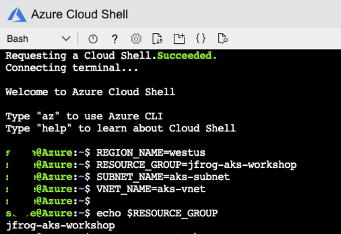
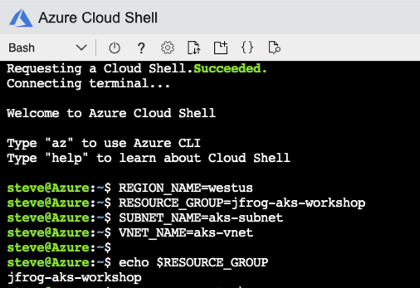
updates

diff --git a/layouts/partials/logo.html b/layouts/partials/logo.html
@@ -1,37 +1,44 @@
-<a id="logo" href="/">
-
-<svg id="grav-logo" version="1.1" id="Layer_1" xmlns="http://www.w3.org/2000/svg" xmlns:xlink="http://www.w3.org/1999/xlink"
-	width="100%" height="100%"  viewBox="0 0 285.1 69.9" xml:space="preserve">
-<g>
-	<path d="M35,0c9.6,0,17.9,3.4,24.7,10.3c6.8,6.8,10.3,15,10.3,24.7c0,9.7-3.4,17.9-10.3,24.7c-6.8,6.8-15,10.3-24.7,10.3
-		c-9.7,0-17.9-3.4-24.7-10.3C3.4,52.8,0,44.6,0,34.9c0-9.6,3.4-17.9,10.3-24.7C17.1,3.4,25.3,0,35,0z M22.3,63.7
-		c0.3-7.4,0.3-14.7,0-22.1c-2.1-0.4-4-0.4-5.9,0c-0.2,0.8-0.2,2.5-0.1,4.9c0.1,2.3,0,3.9-0.3,4.8c-1.7-0.6-2.7-2.1-3.1-4.6
-		c-0.1-0.7-0.1-3.3-0.1-8c0-14.5-0.1-23-0.3-25.6c-3.6,4.1-5.6,7-5.9,8.5v10.9c0,4.5,0.1,8.1,0.2,10.9c0,0.4,0,1.3-0.1,2.8
-		c-0.1,1.2,0,2.1,0.1,2.6c0.1,0.6,1.1,2.1,2.8,4.7C13.2,58.7,17.5,62.2,22.3,63.7z M44.6,65.4c0.3-5,0.2-12.9-0.1-23.6
-		c-2.1-0.3-4.1-0.3-5.9,0c-0.2,2-0.2,5.1-0.1,9.5c0.1,4.3,0,7.5-0.1,9.5c-2.9,0.4-5,0.3-6.2-0.1c-0.2-5.6-0.2-15.2-0.1-28.7
-		c0.1-12.4,0-21.8-0.3-28.3c-2.4,0.1-4.3,0.6-5.7,1.3c-0.1,7.7-0.2,17.7-0.1,30.1c0,16.5,0,26.6,0,30.3c2.3,1.1,5.4,1.7,9.4,1.7
-		C38.9,66.9,42.1,66.4,44.6,65.4z M48.1,64.1c9.7-4.6,15.7-12,18-22.2c-1.8-0.2-3.8-0.3-6.1-0.3c-1.6,3.9-2.6,6.3-3.2,7.2
-		c-1.1,1.7-2,2.5-2.7,2.5C54,46,54,39.1,54,30.5c0-11.5,0-18.4,0-20.9c-1.4-1.4-3.3-2.5-5.7-3.4C48.1,6.3,48,6.4,48,6.7
-		c0,3.5,0,13.1,0,28.8C47.9,47.2,48,56.8,48.1,64.1z"/>
-</g>
-<g>
-	<path d="M154.8,51.3h-22.9c-0.9,0-1.8-0.2-2.9-0.5c-1-0.3-2-0.8-2.9-1.5c-0.9-0.7-1.6-1.6-2.2-2.8c-0.6-1.1-0.9-2.5-0.9-4.2V19.5
-		c0-0.4,0.1-0.9,0.2-1.2c0.2-0.4,0.4-0.7,0.7-1c0.3-0.3,0.6-0.5,1-0.7c0.4-0.2,0.8-0.2,1.3-0.2h28.6v6.3h-25.4v19.8
-		c0,0.8,0.2,1.5,0.7,1.9s1.1,0.7,1.9,0.7h22.9V51.3z M151.9,37h-20v-6.4h20V37z"/>
-	<path d="M197.3,51.3H191v-8.6h-22.3v8.6h-6.3V33.8c0-2.6,0.4-4.9,1.3-7.1s2.1-4,3.7-5.5c1.6-1.5,3.4-2.8,5.5-3.6
-		c2.1-0.9,4.5-1.3,7-1.3h14.3c0.4,0,0.9,0.1,1.2,0.2c0.4,0.2,0.7,0.4,1,0.7s0.5,0.6,0.7,1c0.2,0.4,0.2,0.8,0.2,1.2V51.3z
-		 M168.7,36.4H191V22.6h-11.2c-0.2,0-0.6,0-1.2,0.1c-0.6,0.1-1.4,0.2-2.2,0.4c-0.8,0.2-1.7,0.6-2.6,1c-0.9,0.5-1.8,1.1-2.5,2
-		c-0.8,0.8-1.4,1.9-1.9,3.1c-0.5,1.2-0.7,2.8-0.7,4.5V36.4z"/>
-	<path d="M241.7,28.1c0,1.4-0.2,2.7-0.5,3.9c-0.4,1.1-0.8,2.1-1.5,3c-0.6,0.9-1.3,1.6-2.1,2.2c-0.8,0.6-1.6,1.1-2.5,1.5
-		c-0.9,0.4-1.8,0.7-2.6,0.9c-0.9,0.2-1.7,0.3-2.5,0.3l13.3,11.5h-9.8l-13.2-11.5h-4.6v-6.3H230c0.8-0.1,1.5-0.2,2.2-0.5
-		c0.7-0.3,1.2-0.6,1.7-1.1c0.5-0.5,0.9-1,1.1-1.6c0.3-0.6,0.4-1.4,0.4-2.2v-4c0-0.4,0-0.6-0.1-0.8c-0.1-0.2-0.2-0.3-0.3-0.4
-		c-0.1-0.1-0.3-0.1-0.4-0.2c-0.2,0-0.3,0-0.4,0h-20.9v28.7h-6.3V19.5c0-0.4,0.1-0.9,0.2-1.2c0.2-0.4,0.4-0.7,0.7-1
-		c0.3-0.3,0.6-0.5,1-0.7c0.4-0.2,0.8-0.2,1.3-0.2H234c1.4,0,2.6,0.3,3.6,0.8s1.8,1.2,2.4,1.9c0.6,0.8,1,1.6,1.3,2.5
-		c0.3,0.9,0.4,1.7,0.4,2.5V28.1z"/>
-	<path d="M285.1,48.6c0,0.5-0.1,0.9-0.3,1.3c-0.2,0.4-0.4,0.7-0.7,1c-0.3,0.3-0.6,0.5-1,0.7c-0.4,0.2-0.8,0.2-1.2,0.2
-		c-0.4,0-0.8-0.1-1.2-0.2c-0.4-0.1-0.8-0.4-1.1-0.7l-23.2-24.2v24.7h-6.3V19c0-0.7,0.2-1.2,0.5-1.8c0.4-0.5,0.8-0.9,1.4-1.2
-		c0.6-0.2,1.2-0.3,1.9-0.2s1.2,0.4,1.6,0.9l23.2,24.2V16.3h6.3V48.6z"/>
+<!-- Generator: Adobe Illustrator 21.1.0, SVG Export Plug-In . SVG Version: 6.00 Build 0)  -->
+<svg version="1.1" id="Layer_1" xmlns="http://www.w3.org/2000/svg" xmlns:xlink="http://www.w3.org/1999/xlink" x="0px" y="0px"
+	 viewBox="0 0 300 300" style="enable-background:new 0 0 300 300;" xml:space="preserve">
+<style type="text/css">
+	.st0{fill:#ffffff;}
+</style>
+<g id="Layer_x0020_1">
+	<path class="st0" d="M131.8,182.9l-11.5,3.2c1,2.9,1.8,8.1,1.8,15.1v34.4H135v-36.4c2.4-2.9,5-4.3,7.8-4.3c1.4,0,2.5,0.3,3.7,1
+		l3.5-11.9c-2-0.9-2.9-1.1-4.8-1.1c-1.4,0-3.1,0.3-4.2,0.8c-2.4,1.2-5.4,3.9-7.3,6.5C133.7,187.3,133,185,131.8,182.9z M87.4,165.9
+		H86v69.6h13.4v-30.8h16.9v-11.5H99.4v-16h21.1l0.8-6.1C108.6,170.2,97.1,168.2,87.4,165.9z M56.1,244.8l6.2,7.2
+		c6-2.4,13.5-7.8,15.5-16.4c0.7-2.8,0.9-4.6,0.9-13.7v-55.9H65.2v57.4c0,7.5-0.3,10.3-1.3,12.9C62.6,239.2,59.5,242.6,56.1,244.8z
+		 M177.8,209.5c0,12.2-2.4,17.4-7.9,17.4c-2.5,0-5.3-1.4-6.5-4.2c-1-2.6-1.6-7-1.6-13c0-5.1,0.5-8.7,1.3-11.5c1-3.2,3.5-5.2,6.6-5.2
+		c2.3,0,4.3,1,5.5,2.7C177,198.1,177.8,202.6,177.8,209.5z M185.7,229.5c4.2-5,6.1-11.1,6.1-19.9c0-8.3-1.7-14-5.6-18.8
+		c-4.2-5.2-9.6-7.7-16.6-7.7c-13.2,0-22,10.7-22,26.9s8.7,26.6,22,26.6C177.1,236.7,182,233.9,185.7,229.5z M222.3,200.7
+		c0,4.7-2.8,7.3-7.8,7.3c-4.5,0-7.5-2.1-7.5-7.3c0-4.8,2.8-7.6,7.6-7.6S222.3,195.9,222.3,200.7z M245,189.7l-5.3-8.5
+		c-3,2.8-6.6,4.4-10.1,4.4c-1.6,0-2.5-0.2-6-1.1c-3.5-1-6-1.3-8.8-1.3c-12.5,0-20.6,6.8-20.6,17.4c0,7.6,3.4,12.4,10.5,14.3
+		c-2.9,0.7-6,2.2-7.4,3.9c-1,1.2-1.5,2.8-1.5,4.7c0,1.6,0.4,3,1,4.2c0.7,1.1,1.6,2,2.8,2.5c2.3,0.9,6,1.5,11.7,1.6
+		c3,0,4.8,0.1,5.4,0.1c3.5,0.2,5.3,0.8,6.7,1.5c1.3,0.8,2.3,2.6,2.3,4.6c0,2-1.2,4-3.1,5.2c-1.7,1.2-4.5,1.7-8.1,1.7
+		c-5.9,0-9.2-2.2-9.2-6.3c0-1.8,0.2-2.2,0.6-3.3h-11.8c-0.5,1-1.1,2.4-1.1,5.2c0,3.5,1.3,6.5,4,9.1c4.4,4.3,11.6,5.5,18.5,5.5
+		c7.6,0,15-1.8,19.3-6.6c2.7-3,3.9-6.3,3.9-10.6c0-4.6-1.3-8.1-4.2-11c-3.4-3.3-7.3-4.5-14.8-4.6l-6.9-0.1c-1.3,0-2.1-0.5-2.1-1.2
+		c0-1.4,1.8-2.6,5.1-4.2c1,0.1,1.3,0.1,1.9,0.1c10.4,0,18-6.4,18-15.3c0-3.4-1-6-2.9-8.4c1.6,0.2,2.1,0.3,3.3,0.3
+		C239.5,193.5,242.2,192.4,245,189.7z M84,105.4c-16,3.9-26.9,11.6-26.9,20.4c0,5.5,4.2,10.5,11.1,14.4c-2.1-3.3-3.2-6.9-3.2-10.5
+		C65.1,120.6,72.2,112.1,84,105.4z M252.8,139.9c0-5.8-3.6-11.1-9.6-15.5c0.5,1.8,0.9,3.6,0.9,5.4c0,16.5-23.1,30.7-55.9,36.6
+		c3.7,0.4,7.5,0.6,11.5,0.6C229,166.9,252.8,154.8,252.8,139.9z M233.9,130.9c0-6.1-5.2-11.7-14.1-16.3c2.1,2.5,3.2,5.2,3.2,8
+		c0,14.7-31.2,26.6-69.8,26.6c-38.5,0-69.8-11.9-69.8-26.6c0-1.9,0.5-3.7,1.5-5.4c-6.2,4.1-9.7,8.8-9.7,13.8
+		c0,15.9,35.5,28.8,79.3,28.8S233.9,146.7,233.9,130.9z M199.3,130.1c-16.2,10.4-66,14.4-87.4,1c-16.8-10.5-11-27.2-59.1-63.8
+		c-6.3-4.8,1.2-9.9,5.9-6.6c4.7,3.3,0.4,4.1,9.9,13.6c19.2,19.2,19,1.9,22,8.5c6.4,13.7,20.4,27.5,20.4,27.5
+		c14.1,9.2,25.3,11.2,46.1-2.9c13.2-8.9,7.8,14.2,40.1-2.5c11.8-6.1,11.3-2,23.3-18.7c5-6.9,14.5,5.3,3.7,7
+		c-4.3,0.7-11.6,5.4-14.7,12.8C205,117.1,206.9,125.3,199.3,130.1z M109.5,101.9c-4-1.8-8.2-8.6-9.8-11.3c4.5-4.4,2.7-11.7,0.1-15.7
+		c-2.5-4-5.6-2.9-8.9-6.6c-3.4-3.7,1.3-13.3,5.6-5.9c16.1,27.7,26.7,16.2,39.8,14.5c12.6-1.6,23.8,5.3,27.2-14.2
+		c0.6-3.2,3.7-3.9,4,1.3c0.3,5.3,2.3,18.1,9.2,19.7c6.9,1.7,12.5-1.6,14.1-3.4c1.6-1.8,2.5-1.6,3.2,3c0.7,4.5,2.5,10.8,12.2,3.8
+		c19.9-14.2,14.2-19.7,22-23.4c4.4-2.1,11.4,4.7,1.3,9.8c-14.4,7.3-15.9,16.3-25,22c-15.3,9.6-10.6,0.4-35.2-3.1
+		c-9.5-1.3-12.5,9.2-19.9,6.2C132.5,91.6,120.6,93,109.5,101.9z M162.8,50.6c0.6,4.2,1.3,4.1,2.8,4.4c1.5,0.4,3.4-2,3.4-4.2
+		c0.1-2.3-1-3.7-3.2-3.6C163.5,47.3,162.7,48.4,162.8,50.6z M236.8,58.1c1.8,1.7,6.6,0.6,7.7-0.7c2.9-3.2,3-5.1,1.5-7.3
+		c-1.5-2.1-4.6-1.8-7.7,0.5C235.2,52.9,235.8,57.2,236.8,58.1z M235.5,79.3c-1.5,2-1.6,3.5-0.5,4.6c1.2,1.2,3.6,2.2,5.3,0.9
+		c1.7-1.4,1.7-3.4,0.3-5.1C239.1,77.9,237.1,77.9,235.5,79.3z M83.7,54.3c2.3,0.7,3.4,2.9,5.3,0.4c1-1.2,1.1-2.9-0.2-4.7
+		c-0.8-1.1-4.6-1.9-6.2-0.3C81,51.3,82.5,53.9,83.7,54.3z M36.8,52.9c4.2,2.6,6.9,6.5,10.1,3c1.1-1.2,2.4-3.3,0.1-7.5
+		c-1.7-3.1-7.2-4.3-9.1-3.1C35.9,46.4,33.5,50.9,36.8,52.9z M75.5,72.8c1.3,1.4,3.6,1.3,5,0.5c1.3-0.8,1.1-2.9-0.2-4.7
+		c-0.8-1.1-3.2-1.7-4.8,0S74.6,71.8,75.5,72.8z"/>
 </g>
 </svg>
+
 
 </a>

diff --git a/content/03_Workshop/deploy_aks.md b/content/03_Workshop/deploy_aks.md
@@ -4,7 +4,9 @@ date =  2020-10-19T15:01:57-07:00
 weight = 5
 +++
 
-Determine the latest non-preview version of Kubernetes for the region in which you have created your resource group and store it as a Bash variable.
+With the new virtual network in place, you can go ahead and create your new cluster. There are two values you need to know before running the ```az aks create``` command. The first is the version of the latest, non-preview, Kubernetes version available in your selected region, and the second is a unique name for your cluster.
+
+To get the latest, non-preview, Kubernetes version you use the ```az aks get-versions``` command. Store the value that returns from the command in a Bash variable named ```VERSION```. Run the command below the retrieve and store the version number.
 
 ```bash
 VERSION=$(az aks get-versions \
@@ -13,13 +15,18 @@ VERSION=$(az aks get-versions \
     --output tsv)
 ```
 
-create a unique AKS cluster name and save it as a Bash variable.
+The AKS cluster name must be unique. Run the following command to create a Bash variable that holds a unique name.
 
 ```bash
 AKS_CLUSTER_NAME=jfrog-aks-workshop-$RANDOM
 ```
+Run the following command to output the value stored in ```$AKS_CLUSTER_NAME```. Note this for later use. You'll need it to reconfigure the variable in the future, if necessary.
 
-Create the AKS cluster. This may take a few minutes to deploy.
+```bash
+echo $AKS_CLUSTER_NAME
+```
+
+Run the following ```az aks create``` command to create the AKS cluster running the latest Kubernetes version. This command can take a few minutes to complete.
 
 ```bash
 az aks create \
@@ -37,3 +44,23 @@ az aks create \
 --docker-bridge-address 172.17.0.1/16 \
 --generate-ssh-keys
 ```
+
+Let's review the variables in the previous command:
+
+* ```$AKS_CLUSTER_NAME``` specifies the name of the AKS cluster.
+* ```$VERSION``` is the latest Kubernetes version you retrieved earlier.
+* ```$SUBNET_ID``` is the ID of the subnet created on the virtual network to be configured with AKS.
+
+Note the following deployment configuration:
+
+* ```--vm-set-type```: We're specifying that the cluster is created by using virtual machine scale sets. The virtual machine scale sets enable you to switch on the cluster autoscaler when needed.
+
+* ```--node-count```: We're specifying that the cluster is created with two nodes. The default node count is three nodes. However, if you're running this exercise using a free trial account, cluster creation may fail due to quota limits if left at the default setting.
+
+* ```--network-plugin```: We're specifying the creation of the AKS cluster by using the CNI plug-in.
+
+* ```--service-cidr```: This address range is the set of virtual IPs that Kubernetes assigns to internal services in your cluster. The range must not be within the virtual network IP address range of your cluster. It should be different from the subnet created for the pods.
+
+* ```--dns-service-ip```: The IP address is for the cluster's DNS service. This address must be within the Kubernetes service address range. Don't use the first IP address in the address range, such as 0.1. The first address in the subnet range is used for the kubernetes.default.svc.cluster.local address.
+
+* ```--docker-bridge-address```: The Docker bridge network address represents the default docker0 bridge network address present in all Docker installations. AKS clusters or the pods themselves don't use docker0 bridge. However, you have to set this address to continue supporting scenarios such as docker build within the AKS cluster. It's required to select a classless inter-domain routing (CIDR) for the Docker bridge network address. If you don't set a CIDR, Docker chooses a subnet automatically. This subnet could conflict with other CIDRs. Choose an address space that doesn't collide with the rest of the CIDRs on your networks, which includes the cluster's service CIDR and pod CIDR.

diff --git a/content/_index.en.md b/content/_index.en.md
@@ -2,40 +2,12 @@
 title: "Build and Scale Seamlessly with the JFrog Platform on Azure"
 ---
 
-# Hugo learn theme
+# Build and Scale Seamlessly with the JFrog Platform on Azure
 
-[Hugo-theme-learn](http://github.com/matcornic/hugo-theme-learn) is a theme for [Hugo](https://gohugo.io/), a fast and modern static website engine written in Go. Where Hugo is often used for blogs, this multilingual-ready theme is **fully designed for documentation**.
+## Welcome to the Cloud DevOps Days Workshop on Microsoft Azure!
 
-This theme is a partial porting of the [Learn theme](http://learn.getgrav.org/) of [Grav](https://getgrav.org/), a modern flat-file CMS written in PHP.
+Learn how the JFrog Platform on Azure can help you build and scale your applications seamlessly in the cloud. We’ll set up the JFrog Platform and connect to an AKS cluster that you create. Get hands-on experience using a JFrog private docker registry to deploy images to AKS.
 
-{{% notice tip %}}Learn theme works with a _page tree structure_ to organize content : All contents are pages, which belong to other pages. [read more about this]({{%relref "cont/pages/_index.md"%}}) 
-{{% /notice %}}
+**In this workshop you will be working with the JFrog Platform and Microsoft Azure. Complete the Workshop and submit a screenshot of your results to receive a limited JFrog and Microsoft T shirt for this event!**
 
-## Main features
-
-* [Automatic Search]({{%relref "basics/configuration/_index.md#activate-search" %}})
-* [Multilingual mode]({{%relref "cont/i18n/_index.md" %}})
-* **Unlimited menu levels**
-* **Automatic next/prev buttons to navigate through menu entries**
-* [Image resizing, shadow...]({{%relref "cont/markdown.en.md#images" %}})
-* [Attachments files]({{%relref "shortcodes/attachments.en.md" %}})
-* [List child pages]({{%relref "shortcodes/children/_index.md" %}})
-* [Mermaid diagram]({{%relref "shortcodes/mermaid.en.md" %}}) (flowchart, sequence, gantt)
-* [Customizable look and feel and themes variants]({{%relref "basics/style-customization/_index.md"%}})
-* [Buttons]({{%relref "shortcodes/button.en.md" %}}), [Tip/Note/Info/Warning boxes]({{%relref "shortcodes/notice.en.md" %}}), [Expand]({{%relref "shortcodes/expand.en.md" %}})
-
-![Screenshot](https://github.com/matcornic/hugo-theme-learn/raw/master/images/screenshot.png?width=40pc&classes=shadow)
-
-## Contribute to this documentation
-Feel free to update this content, just click the **Edit this page** link displayed on top right of each page, and pullrequest it
-
-{{% notice info %}}
-Your modification will be deployed automatically when merged.
-{{% /notice %}}
-
-## Documentation website
-This current documentation has been statically generated with Hugo with a simple command : `hugo -t hugo-theme-learn` -- source code is [available here at GitHub](https://github.com/matcornic/hugo-theme-learn)
-
-{{% notice note %}}
-Automatically published and hosted thanks to [Netlify](https://www.netlify.com/). Read more about [Automated HUGO deployments with Netlify](https://www.netlify.com/blog/2015/07/30/hosting-hugo-on-netlifyinsanely-fast-deploys/)
-{{% /notice %}}
+![jfrog_shirt](/images/jfrog_shirt.png)

diff --git a/content/03_Workshop/configure_networking.md b/content/03_Workshop/configure_networking.md
@@ -4,7 +4,25 @@ date =  2020-10-19T15:01:58-07:00
 weight = 5
 +++
 
-Create a virtual network. What is the purpsoe of the network resource.
+We have two network models to choose from when deploying an AKS cluster. The first model is Kubenet networking, and the second is Azure Container Networking Interface (CNI) networking.
+
+## What is Kubenet networking?
+
+Kubenet networking is the default networking model in Kubernetes. With Kubenet networking, nodes get assigned an IP address from the Azure virtual network subnet. Pods receive an IP address from a logically different address space to the Azure virtual network subnet of the nodes.
+
+Network address translation (NAT) is then configured so that the pods can reach resources on the Azure virtual network. The source IP address of the traffic is translated to the node's primary IP address and then configured on the nodes. Note, that pods receive an IP address that's "hidden" behind the node IP.
+
+## What is Azure Container Networking Interface (CNI) networking?
+
+With Azure Container Networking Interface (CNI), the AKS cluster is connected to existing virtual network resources and configurations. In this networking model, every pod gets an IP address from the subnet and can be accessed directly. These IP addresses must be unique across your network space and calculated in advance.
+
+Some of the features you'll use require you to deploy the AKS cluster by using the Azure Container Networking Interface networking configuration.
+
+For a more detailed comparison, see the Learn more section at the end of this module.
+
+Let's create the virtual network for your AKS cluster. We will use this virtual network and specify the networking model when we deploy the cluster.
+
+First, create a virtual network and subnet. Pods deployed in your cluster will be assigned an IP from this subnet. Run the following command to create the virtual network.
 
 ```bash
 az network vnet create \
@@ -16,9 +34,7 @@ az network vnet create \
     --subnet-prefixes 10.240.0.0/16
 ```
 
-What did we configure.
-
-Store the subnet ID as a Bash variable.
+Next, retrieve, and store the subnet ID in a Bash variable by running the command below.
 
 ```bash
 SUBNET_ID=$(az network vnet subnet show \

diff --git a/content/03_Workshop/cluster_connectivity.md b/content/03_Workshop/cluster_connectivity.md
@@ -4,7 +4,9 @@ date =  2020-10-19T15:01:56-07:00
 weight = 5
 +++
 
-Retrieve the cluster credentials.
+kubectl is the main Kubernetes command-line client you use to interact with your cluster and is available in Cloud Shell. A cluster context is required to allow kubectl to connect to a cluster. The context contains the cluster's address, a user, and a namespace. Use the az aks get-credentials command to configure your instance of kubectl.
+
+Retrieve the cluster credentials by running the command below.
 
 ```bash
 az aks get-credentials \
@@ -12,11 +14,16 @@ az aks get-credentials \
     --name $AKS_CLUSTER_NAME
 ```
 
-List the nodes in the AKS cluster.
+Let's take a look at what was deployed by listing all the nodes in your cluster. Use the kubectl get nodes command to list all the nodes.
 
 ```bash
 kubectl get nodes
 ```
-This should return the name and status for the 2 nodes in the AKS cluaster you created.
 
-![azure_nodes_1](/images/azure_nodes_1.png)
+You'll see a list of your cluster's nodes. Here's an example.
+
+```bash
+NAME                                STATUS   ROLES   AGE  VERSION
+aks-nodepool1-29333311-vmss000000   Ready    agent   2m36s   v1.17.9
+aks-nodepool1-29333311-vmss000001   Ready    agent   2m34s   v1.17.9
+```

diff --git a/content/03_Workshop/azure_cli.md b/content/03_Workshop/azure_cli.md
@@ -8,7 +8,7 @@ Open the Azure Cloud Shell and sign in with your account. Select the Bash versio
 
 {{% button href="https://shell.azure.com" %}}Azure Cloud Shell{{% /button %}}
 
-Create the bash variables for the values that we will be using throughout the workshop.
+We need to create some Bash variables for the values that we will be using throughout the workshop. If you select a different value, remember it for the rest of the exercises in this workshop. Run the following commands to record these values in Bash variables.
 
 ```bash
 REGION_NAME=westus
@@ -17,7 +17,10 @@ SUBNET_NAME=aks-subnet
 VNET_NAME=aks-vnet
 ```
 
-At any point, echo can be used to show the value of a variable.
+At any point, the ```echo``` command can be used to show the value of a variable.
 
+```bash
+echo $RESOURCE_GROUP
+```
 
 ![azure_cli](/images/azure_cli.png)

diff --git a/content/01_Introduction/_index.md b/content/01_Introduction/_index.md
@@ -11,3 +11,7 @@ pre = "<b>1. </b>"
 # Build and Scale Seamlessly with the JFrog Platform on Azure
 
 Learn how the JFrog Platform on Azure can help you build and scale your applications seamlessly in the cloud. We’ll set up the JFrog Platform and connect to an AKS cluster that you create. Get hands-on experience using a JFrog private docker registry to deploy images to AKS.
+
+**In this workshop you will be working with the JFrog Platform and Microsoft Azure. Complete the Workshop and submit a screenshot of your results to receive a limited JFrog and Microsoft T shirt for this event!**
+
+![jfrog_shirt](/images/jfrog_shirt.png)

diff --git a/content/03_Workshop/azure_resource_group.md b/content/03_Workshop/azure_resource_group.md
@@ -4,12 +4,10 @@ date =  2020-10-19T15:01:59-07:00
 weight = 5
 +++
 
-Create a new Azure Resource Group for this workshop.
+Create a new resource group with the name jfrog-aks-workshop. Deploy all resources created in these exercises in this resource group. A single resource group makes it easier to clean up the resources after you finish the module.
 
 ```bash
 az group create \
     --name $RESOURCE_GROUP \
     --location $REGION_NAME
 ```
-
-This resource group will be the container for all of the resources we will need for the workshop.

diff --git a/content/01_Introduction/jfrog_platform.md b/content/01_Introduction/jfrog_platform.md
@@ -1,7 +1,7 @@
 +++
-title = "The JFrog Platform"
+title = "Unified, End-to-End Platform"
 date =  2020-10-20T14:34:06-07:00
 weight = 5
 +++
 
-![jfrog_platform](/images/jfrog_platform.png)
+![jfrog_platform2](/images/jfrog_platform2.png)

diff --git a/content/01_Introduction/jfrog_platform_attributes.md b/content/01_Introduction/jfrog_platform_attributes.md
@@ -1,0 +1,7 @@
++++
+title = "The JFrog Platform"
+date =  2020-10-19T15:19:58-07:00
+weight = 5
++++
+
+![jfrog_platform_attributes](/images/jfrog_platform_attributes.png)

diff --git a/content/01_Introduction/Azure_AKS.md b/content/01_Introduction/Azure_AKS.md
@@ -1,0 +1,7 @@
++++
+title = "JFrog and Microsoft Azure"
+date =  2020-10-18T15:24:27-07:00
+weight = 5
++++
+
+Slide covering what JFrog can do on Microsoft Azure
